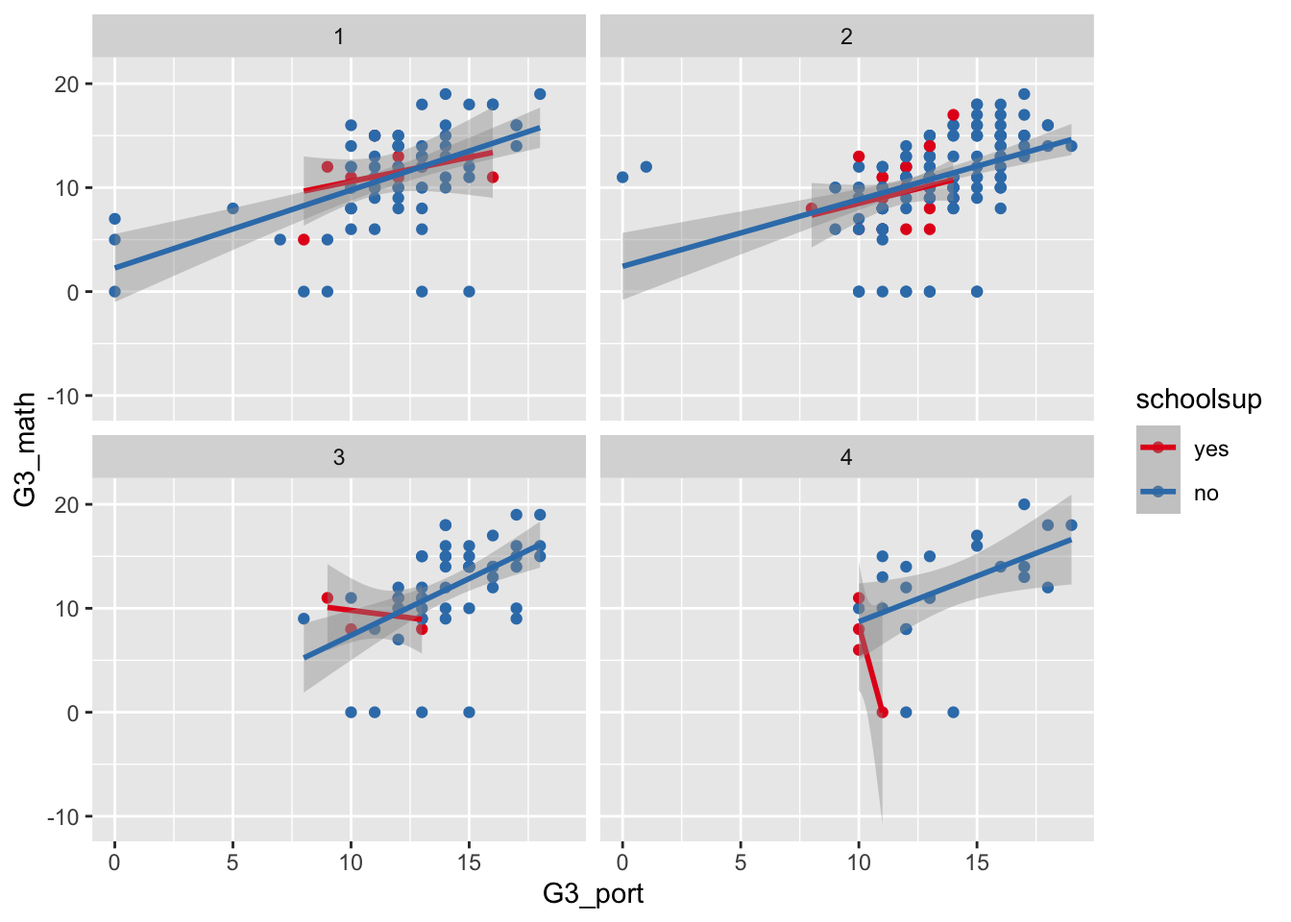
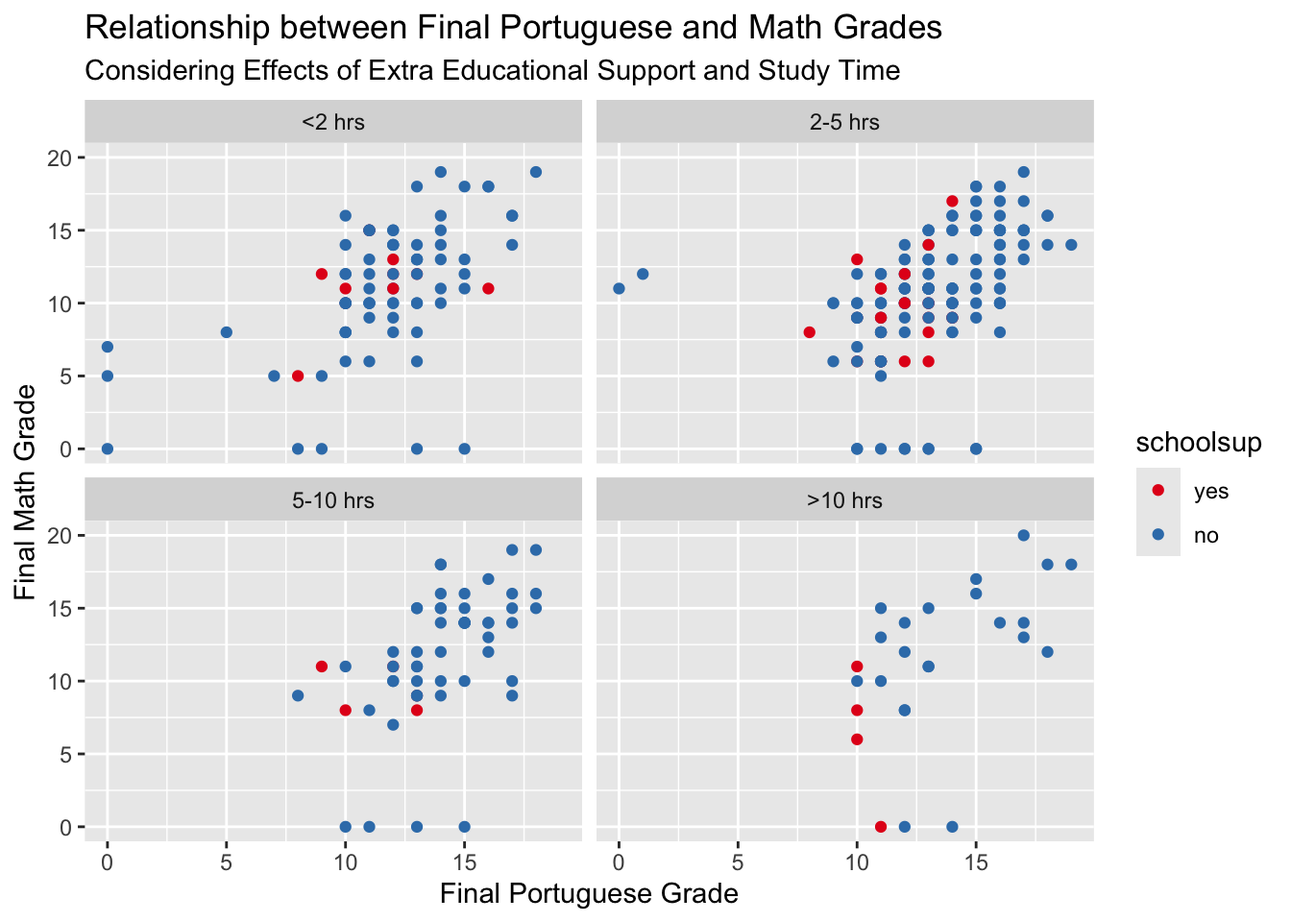
updated titles and labels

diff --git a/docs/summarizing_student_data.html b/docs/summarizing_student_data.html
@@ -314,7 +314,7 @@ dbl (16): age, Medu, Fedu, traveltime, studytime, failures, famrel, freetime...
 </section>
 <section id="establish-factors" class="level3">
 <h3 class="anchored" data-anchor-id="establish-factors">Establish Factors</h3>
-<p>Next, for the math data, Portuguese data, and combined data, choose at least four categorical variables of interest and convert those into factor variables in each tibble (use the same four variables in each).</p>
+<p>Next, for the math data, Portuguese data, and combined data, choose at least four categorical variables of interest and convert those into factor variables in each tibble (use the same factor variables in each).</p>
 <p>Identify all potential factor variables. <em>Note: consistent with some social science research practices, variables measured on a Likert scale (e.g., <code>health</code>) are treated as interval variables for analysis purposes.</em></p>
 <div class="cell">
 <div class="sourceCode cell-code" id="cb20"><pre class="sourceCode r code-with-copy"><code class="sourceCode r"><span id="cb20-1"><a href="#cb20-1" aria-hidden="true" tabindex="-1"></a>factors_yn <span class="ot">&lt;-</span> <span class="fu">c</span>(<span class="st">"schoolsup"</span>, <span class="st">"famsup"</span>, <span class="st">"paid"</span>, <span class="st">"paid_math"</span>, <span class="st">"paid_port"</span>, <span class="st">"activities"</span>, <span class="st">"nursery"</span>, <span class="st">"higher"</span>, <span class="st">"internet"</span>, <span class="st">"romantic"</span>)</span>
@@ -705,7 +705,7 @@ dbl (16): age, Medu, Fedu, traveltime, studytime, failures, famrel, freetime...
 </section>
 <section id="numeric-variables" class="level3">
 <h3 class="anchored" data-anchor-id="numeric-variables">Numeric Variables</h3>
-<p>Find measures of center and spread for the numeric variables <code>absences</code> and <code>G3</code> for both math and Portguese.</p>
+<p>Find measures of center and spread for the numeric variables <code>absences</code> and <code>G3</code> for both math and Portuguese.</p>
 <div class="cell">
 <div class="sourceCode cell-code" id="cb60"><pre class="sourceCode r code-with-copy"><code class="sourceCode r"><span id="cb60-1"><a href="#cb60-1" aria-hidden="true" tabindex="-1"></a>students <span class="sc">|&gt;</span></span>
 <span id="cb60-2"><a href="#cb60-2" aria-hidden="true" tabindex="-1"></a>  <span class="fu">summarise</span>(<span class="fu">across</span>(<span class="fu">c</span>(absences_math, G3_math, absences_port, G3_port),</span>
@@ -734,7 +734,7 @@ IQR_G3_port           4.00</code></pre>
 </div>
 </div>
 <p><em>Takeaway: absences show both a higher center and greater spread for math than for Portuguese; average math G3 scores are a bit lower than Portuguese, perhaps related to greater absences.</em></p>
-<p>Repeat the above analysis while subsetting the data in a meaningful way, in this case on commute time greater than 30 minutes.</p>
+<p>Repeat the above analysis while subsetting the data in a meaningful way, in this case on <strong>commute time</strong> greater than 30 minutes.</p>
 <div class="cell">
 <div class="sourceCode cell-code" id="cb62"><pre class="sourceCode r code-with-copy"><code class="sourceCode r"><span id="cb62-1"><a href="#cb62-1" aria-hidden="true" tabindex="-1"></a>students <span class="sc">|&gt;</span></span>
 <span id="cb62-2"><a href="#cb62-2" aria-hidden="true" tabindex="-1"></a>  <span class="fu">filter</span>(traveltime <span class="sc">&gt;=</span> <span class="dv">3</span>) <span class="sc">|&gt;</span></span>
@@ -764,7 +764,7 @@ IQR_G3_port           3.00</code></pre>
 </div>
 </div>
 <p><em>Takeaway: there looks to be less variability in adsences for math compared to the full sample; average G3 scores are somewhat lower for both math and Portuguese compared to the full sample.</em></p>
-<p>Find measures of center and spread for the numeric variables <code>G1</code> and <code>G3</code> for both math and Portuguese across a single grouping variable, in this case whether the student had extra educational support from the school.</p>
+<p>Find measures of center and spread for the numeric variables <code>G1</code> and <code>G3</code> for both math and Portuguese across a single grouping variable, in this case whether the student had <strong>extra educational support</strong> from the school.</p>
 <div class="cell">
 <div class="sourceCode cell-code" id="cb64"><pre class="sourceCode r code-with-copy"><code class="sourceCode r"><span id="cb64-1"><a href="#cb64-1" aria-hidden="true" tabindex="-1"></a>students <span class="sc">|&gt;</span></span>
 <span id="cb64-2"><a href="#cb64-2" aria-hidden="true" tabindex="-1"></a>  <span class="fu">group_by</span>(schoolsup) <span class="sc">|&gt;</span></span>
@@ -798,7 +798,7 @@ Supply arguments directly to `.fns` through an anonymous function instead.
 </div>
 </div>
 <p><em>Takeaway: students with extra educational support showed a modest increase from G1 scores to G3 scores; the same was true for Portuguese, although the students wihtout extra support also raised their scores.</em></p>
-<p>Find measures of center and spread for the numeric variables <code>G1</code> and <code>G3</code> for both math and Portuguese across two grouping variable, in this case whether the student had extra paid classes in either or both subjects.</p>
+<p>Find measures of center and spread for the numeric variables <code>G1</code> and <code>G3</code> for both math and Portuguese across two grouping variable, in this case whether the student had <strong>extra paid classes</strong> in either or both subjects.</p>
 <div class="cell">
 <div class="sourceCode cell-code" id="cb67"><pre class="sourceCode r code-with-copy"><code class="sourceCode r"><span id="cb67-1"><a href="#cb67-1" aria-hidden="true" tabindex="-1"></a>students <span class="sc">|&gt;</span></span>
 <span id="cb67-2"><a href="#cb67-2" aria-hidden="true" tabindex="-1"></a>  <span class="fu">group_by</span>(paid_math, paid_port) <span class="sc">|&gt;</span></span>
@@ -865,7 +865,7 @@ G3_port          0.48    1.00</code></pre>
 <span id="cb72-4"><a href="#cb72-4" aria-hidden="true" tabindex="-1"></a>  <span class="fu">xlab</span>(<span class="st">"Final Math Score"</span>) <span class="sc">+</span></span>
 <span id="cb72-5"><a href="#cb72-5" aria-hidden="true" tabindex="-1"></a>  <span class="fu">ylab</span>(<span class="st">"Count"</span>) <span class="sc">+</span></span>
 <span id="cb72-6"><a href="#cb72-6" aria-hidden="true" tabindex="-1"></a>  <span class="fu">labs</span>(<span class="at">title =</span> <span class="st">"Final Math Score Distribution"</span>,</span>
-<span id="cb72-7"><a href="#cb72-7" aria-hidden="true" tabindex="-1"></a>       <span class="at">subtitle =</span> <span class="st">"Considering Effects of Internet Access"</span>, <span class="at">fill =</span> <span class="st">"Internet Access"</span>) <span class="sc">+</span></span>
+<span id="cb72-7"><a href="#cb72-7" aria-hidden="true" tabindex="-1"></a>       <span class="at">subtitle =</span> <span class="st">"Considering Effects of Internet Access"</span>, <span class="at">fill =</span> <span class="st">"Internet </span><span class="sc">\n</span><span class="st">Access"</span>) <span class="sc">+</span></span>
 <span id="cb72-8"><a href="#cb72-8" aria-hidden="true" tabindex="-1"></a>  <span class="fu">scale_fill_brewer</span>(<span class="at">palette=</span><span class="st">"Paired"</span>)</span></code><button title="Copy to Clipboard" class="code-copy-button"><i class="bi"></i></button></pre></div>
 <div class="cell-output-display">
 <div>
@@ -884,7 +884,7 @@ G3_port          0.48    1.00</code></pre>
 <span id="cb73-4"><a href="#cb73-4" aria-hidden="true" tabindex="-1"></a>  <span class="fu">xlab</span>(<span class="st">"Final Portuguese Score"</span>) <span class="sc">+</span></span>
 <span id="cb73-5"><a href="#cb73-5" aria-hidden="true" tabindex="-1"></a>  <span class="fu">ylab</span>(<span class="st">"Count"</span>) <span class="sc">+</span></span>
 <span id="cb73-6"><a href="#cb73-6" aria-hidden="true" tabindex="-1"></a>  <span class="fu">labs</span>(<span class="at">title =</span> <span class="st">"Final Portuguese Score Distribution"</span>,</span>
-<span id="cb73-7"><a href="#cb73-7" aria-hidden="true" tabindex="-1"></a>       <span class="at">subtitle =</span> <span class="st">"Considering Effects of Internet Access"</span>, <span class="at">fill =</span> <span class="st">"Internet Access"</span>) <span class="sc">+</span></span>
+<span id="cb73-7"><a href="#cb73-7" aria-hidden="true" tabindex="-1"></a>       <span class="at">subtitle =</span> <span class="st">"Considering Effects of Internet Access"</span>, <span class="at">fill =</span> <span class="st">"Internet </span><span class="sc">\n</span><span class="st">Access"</span>) <span class="sc">+</span></span>
 <span id="cb73-8"><a href="#cb73-8" aria-hidden="true" tabindex="-1"></a>  <span class="fu">scale_fill_brewer</span>(<span class="at">palette=</span><span class="st">"Paired"</span>)</span></code><button title="Copy to Clipboard" class="code-copy-button"><i class="bi"></i></button></pre></div>
 <div class="cell-output-display">
 <div>
@@ -903,7 +903,7 @@ G3_port          0.48    1.00</code></pre>
 <span id="cb74-4"><a href="#cb74-4" aria-hidden="true" tabindex="-1"></a>  <span class="fu">xlab</span>(<span class="st">"Final Math Score"</span>) <span class="sc">+</span></span>
 <span id="cb74-5"><a href="#cb74-5" aria-hidden="true" tabindex="-1"></a>  <span class="fu">ylab</span>(<span class="st">"Count"</span>) <span class="sc">+</span></span>
 <span id="cb74-6"><a href="#cb74-6" aria-hidden="true" tabindex="-1"></a>  <span class="fu">labs</span>(<span class="at">title =</span> <span class="st">"Final Math Score Distribution"</span>,</span>
-<span id="cb74-7"><a href="#cb74-7" aria-hidden="true" tabindex="-1"></a>       <span class="at">subtitle =</span> <span class="st">"Considering Effects of Internet Access"</span>, <span class="at">fill =</span> <span class="st">"Internet Access"</span>) <span class="sc">+</span></span>
+<span id="cb74-7"><a href="#cb74-7" aria-hidden="true" tabindex="-1"></a>       <span class="at">subtitle =</span> <span class="st">"Considering Effects of Internet Access"</span>, <span class="at">fill =</span> <span class="st">"Internet </span><span class="sc">\n</span><span class="st">Access"</span>) <span class="sc">+</span></span>
 <span id="cb74-8"><a href="#cb74-8" aria-hidden="true" tabindex="-1"></a>  <span class="fu">scale_fill_brewer</span>(<span class="at">palette=</span><span class="st">"Paired"</span>)</span></code><button title="Copy to Clipboard" class="code-copy-button"><i class="bi"></i></button></pre></div>
 <div class="cell-output-display">
 <div>
@@ -922,7 +922,7 @@ G3_port          0.48    1.00</code></pre>
 <span id="cb75-4"><a href="#cb75-4" aria-hidden="true" tabindex="-1"></a>  <span class="fu">xlab</span>(<span class="st">"Final Portuguese Score"</span>) <span class="sc">+</span></span>
 <span id="cb75-5"><a href="#cb75-5" aria-hidden="true" tabindex="-1"></a>  <span class="fu">ylab</span>(<span class="st">"Count"</span>) <span class="sc">+</span></span>
 <span id="cb75-6"><a href="#cb75-6" aria-hidden="true" tabindex="-1"></a>  <span class="fu">labs</span>(<span class="at">title =</span> <span class="st">"Final Portuguese Score Distribution"</span>,</span>
-<span id="cb75-7"><a href="#cb75-7" aria-hidden="true" tabindex="-1"></a>       <span class="at">subtitle =</span> <span class="st">"Considering Effects of Internet Access"</span>, <span class="at">fill =</span> <span class="st">"Internet Access"</span>) <span class="sc">+</span></span>
+<span id="cb75-7"><a href="#cb75-7" aria-hidden="true" tabindex="-1"></a>       <span class="at">subtitle =</span> <span class="st">"Considering Effects of Internet Access"</span>, <span class="at">fill =</span> <span class="st">"Internet </span><span class="sc">\n</span><span class="st">Access"</span>) <span class="sc">+</span></span>
 <span id="cb75-8"><a href="#cb75-8" aria-hidden="true" tabindex="-1"></a>  <span class="fu">scale_fill_brewer</span>(<span class="at">palette=</span><span class="st">"Paired"</span>)</span></code><button title="Copy to Clipboard" class="code-copy-button"><i class="bi"></i></button></pre></div>
 <div class="cell-output-display">
 <div>
@@ -984,8 +984,9 @@ G3_port          0.48    1.00</code></pre>
 <span id="cb78-5"><a href="#cb78-5" aria-hidden="true" tabindex="-1"></a>  <span class="fu">geom_smooth</span>(<span class="at">method =</span> lm) <span class="sc">+</span></span>
 <span id="cb78-6"><a href="#cb78-6" aria-hidden="true" tabindex="-1"></a>  <span class="fu">xlab</span>(<span class="st">"First Period Math Grade"</span>) <span class="sc">+</span></span>
 <span id="cb78-7"><a href="#cb78-7" aria-hidden="true" tabindex="-1"></a>  <span class="fu">ylab</span>(<span class="st">"Final Math Grade"</span>) <span class="sc">+</span></span>
-<span id="cb78-8"><a href="#cb78-8" aria-hidden="true" tabindex="-1"></a>  <span class="fu">labs</span>(<span class="at">title =</span> <span class="st">"Relationship between First Period Grade and Final Grade"</span>,</span>
-<span id="cb78-9"><a href="#cb78-9" aria-hidden="true" tabindex="-1"></a>       <span class="at">subtitle =</span> <span class="st">"Considering Effects of Paid Extra Class"</span>)</span></code><button title="Copy to Clipboard" class="code-copy-button"><i class="bi"></i></button></pre></div>
+<span id="cb78-8"><a href="#cb78-8" aria-hidden="true" tabindex="-1"></a>  <span class="fu">labs</span>(<span class="at">title =</span> <span class="st">"Relationship between First Period Math Grade and Final Grade"</span>,</span>
+<span id="cb78-9"><a href="#cb78-9" aria-hidden="true" tabindex="-1"></a>       <span class="at">subtitle =</span> <span class="st">"Considering Effects of Paid Extra Classes"</span>,</span>
+<span id="cb78-10"><a href="#cb78-10" aria-hidden="true" tabindex="-1"></a>       <span class="at">color =</span> <span class="st">"Extra Paid </span><span class="sc">\n</span><span class="st">Classes"</span>)</span></code><button title="Copy to Clipboard" class="code-copy-button"><i class="bi"></i></button></pre></div>
 <div class="cell-output cell-output-stderr">
 <pre><code>`geom_smooth()` using formula = 'y ~ x'</code></pre>
 </div>
@@ -997,7 +998,7 @@ G3_port          0.48    1.00</code></pre>
 </div>
 </div>
 </div>
-<p><em>Takeaway: …</em></p>
+<p><em>Takeaway: first period and final period math scores appear fairly correlated; these is no obvious clustering for students with extra paid math classes</em></p>
 <p>Create a scatterplot relating a <code>G3</code> variable, in this case <code>G3_math</code> to other numeric variables, in this case <code>G3_port</code>. Color the points by a categorical variable, in this case <code>schoolsup</code>.</p>
 <div class="cell">
 <div class="sourceCode cell-code" id="cb80"><pre class="sourceCode r code-with-copy"><code class="sourceCode r"><span id="cb80-1"><a href="#cb80-1" aria-hidden="true" tabindex="-1"></a>students <span class="sc">|&gt;</span></span>
@@ -1023,15 +1024,17 @@ G3_port          0.48    1.00</code></pre>
 <p><em>Takeaway: …</em></p>
 <p>Repeat the scatter plot step but use faceting to obtain graphs at each setting of another categorical variable.</p>
 <div class="cell">
-<div class="sourceCode cell-code" id="cb82"><pre class="sourceCode r code-with-copy"><code class="sourceCode r"><span id="cb82-1"><a href="#cb82-1" aria-hidden="true" tabindex="-1"></a>students <span class="sc">|&gt;</span></span>
-<span id="cb82-2"><a href="#cb82-2" aria-hidden="true" tabindex="-1"></a>  <span class="fu">ggplot</span>(<span class="fu">aes</span>(G1_math, G3_math, <span class="at">color =</span> paid_math)) <span class="sc">+</span></span>
-<span id="cb82-3"><a href="#cb82-3" aria-hidden="true" tabindex="-1"></a>  <span class="fu">geom_point</span>() <span class="sc">+</span></span>
-<span id="cb82-4"><a href="#cb82-4" aria-hidden="true" tabindex="-1"></a>  <span class="fu">scale_color_brewer</span>(<span class="at">palette =</span> <span class="st">"Set1"</span>) <span class="sc">+</span></span>
-<span id="cb82-5"><a href="#cb82-5" aria-hidden="true" tabindex="-1"></a>  <span class="fu">geom_smooth</span>(<span class="at">method =</span> lm) <span class="sc">+</span></span>
-<span id="cb82-6"><a href="#cb82-6" aria-hidden="true" tabindex="-1"></a>  <span class="fu">facet_wrap</span>(<span class="sc">~</span> studytime)</span></code><button title="Copy to Clipboard" class="code-copy-button"><i class="bi"></i></button></pre></div>
-<div class="cell-output cell-output-stderr">
-<pre><code>`geom_smooth()` using formula = 'y ~ x'</code></pre>
-</div>
+<div class="sourceCode cell-code" id="cb82"><pre class="sourceCode r code-with-copy"><code class="sourceCode r"><span id="cb82-1"><a href="#cb82-1" aria-hidden="true" tabindex="-1"></a>study_time <span class="ot">&lt;-</span> <span class="fu">as_labeller</span>(<span class="fu">c</span>(<span class="st">"1"</span> <span class="ot">=</span> <span class="st">"&lt;2 hrs"</span>, <span class="st">"2"</span> <span class="ot">=</span> <span class="st">"2-5 hrs"</span>, <span class="st">"3"</span> <span class="ot">=</span> <span class="st">"5-10 hrs"</span>, <span class="st">"4"</span> <span class="ot">=</span> <span class="st">"&gt;10 hrs"</span>))</span>
+<span id="cb82-2"><a href="#cb82-2" aria-hidden="true" tabindex="-1"></a></span>
+<span id="cb82-3"><a href="#cb82-3" aria-hidden="true" tabindex="-1"></a>students <span class="sc">|&gt;</span></span>
+<span id="cb82-4"><a href="#cb82-4" aria-hidden="true" tabindex="-1"></a>  <span class="fu">ggplot</span>(<span class="fu">aes</span>(G1_math, G3_math, <span class="at">color =</span> paid_math)) <span class="sc">+</span></span>
+<span id="cb82-5"><a href="#cb82-5" aria-hidden="true" tabindex="-1"></a>  <span class="fu">geom_point</span>() <span class="sc">+</span></span>
+<span id="cb82-6"><a href="#cb82-6" aria-hidden="true" tabindex="-1"></a>  <span class="fu">scale_color_brewer</span>(<span class="at">palette =</span> <span class="st">"Set1"</span>) <span class="sc">+</span></span>
+<span id="cb82-7"><a href="#cb82-7" aria-hidden="true" tabindex="-1"></a>  <span class="fu">xlab</span>(<span class="st">"First Period Math Grade"</span>) <span class="sc">+</span></span>
+<span id="cb82-8"><a href="#cb82-8" aria-hidden="true" tabindex="-1"></a>  <span class="fu">ylab</span>(<span class="st">"Final Math Grade"</span>) <span class="sc">+</span></span>
+<span id="cb82-9"><a href="#cb82-9" aria-hidden="true" tabindex="-1"></a>  <span class="fu">labs</span>(<span class="at">title =</span> <span class="st">"Relationship between First Period Math Grade and Final Grade"</span>,</span>
+<span id="cb82-10"><a href="#cb82-10" aria-hidden="true" tabindex="-1"></a>       <span class="at">subtitle =</span> <span class="st">"Considering Effects of Paid Extra Classes and Study Time"</span>) <span class="sc">+</span></span>
+<span id="cb82-11"><a href="#cb82-11" aria-hidden="true" tabindex="-1"></a>  <span class="fu">facet_wrap</span>(<span class="sc">~</span> studytime, <span class="at">labeller =</span> study_time)</span></code><button title="Copy to Clipboard" class="code-copy-button"><i class="bi"></i></button></pre></div>
 <div class="cell-output-display">
 <div>
 <figure class="figure">
@@ -1040,18 +1043,18 @@ G3_port          0.48    1.00</code></pre>
 </div>
 </div>
 </div>
-<p><em>Takeaway: …</em></p>
+<p><em>Takeaway: amount of study time does not appear to materially influence the correlation between first period and final math scores; perhaps there is a modest influence on the slope</em></p>
 <p>Repeat the scatter plot step but use faceting to obtain graphs at each setting of another categorical variable.</p>
 <div class="cell">
-<div class="sourceCode cell-code" id="cb84"><pre class="sourceCode r code-with-copy"><code class="sourceCode r"><span id="cb84-1"><a href="#cb84-1" aria-hidden="true" tabindex="-1"></a>students <span class="sc">|&gt;</span></span>
-<span id="cb84-2"><a href="#cb84-2" aria-hidden="true" tabindex="-1"></a>  <span class="fu">ggplot</span>(<span class="fu">aes</span>(G3_port, G3_math, <span class="at">color =</span> schoolsup)) <span class="sc">+</span></span>
-<span id="cb84-3"><a href="#cb84-3" aria-hidden="true" tabindex="-1"></a>  <span class="fu">geom_point</span>() <span class="sc">+</span></span>
-<span id="cb84-4"><a href="#cb84-4" aria-hidden="true" tabindex="-1"></a>  <span class="fu">scale_color_brewer</span>(<span class="at">palette =</span> <span class="st">"Set1"</span>) <span class="sc">+</span></span>
-<span id="cb84-5"><a href="#cb84-5" aria-hidden="true" tabindex="-1"></a>  <span class="fu">geom_smooth</span>(<span class="at">method =</span> lm) <span class="sc">+</span></span>
-<span id="cb84-6"><a href="#cb84-6" aria-hidden="true" tabindex="-1"></a>  <span class="fu">facet_wrap</span>(<span class="sc">~</span> studytime)</span></code><button title="Copy to Clipboard" class="code-copy-button"><i class="bi"></i></button></pre></div>
-<div class="cell-output cell-output-stderr">
-<pre><code>`geom_smooth()` using formula = 'y ~ x'</code></pre>
-</div>
+<div class="sourceCode cell-code" id="cb83"><pre class="sourceCode r code-with-copy"><code class="sourceCode r"><span id="cb83-1"><a href="#cb83-1" aria-hidden="true" tabindex="-1"></a>students <span class="sc">|&gt;</span></span>
+<span id="cb83-2"><a href="#cb83-2" aria-hidden="true" tabindex="-1"></a>  <span class="fu">ggplot</span>(<span class="fu">aes</span>(G3_port, G3_math, <span class="at">color =</span> schoolsup)) <span class="sc">+</span></span>
+<span id="cb83-3"><a href="#cb83-3" aria-hidden="true" tabindex="-1"></a>  <span class="fu">geom_point</span>() <span class="sc">+</span></span>
+<span id="cb83-4"><a href="#cb83-4" aria-hidden="true" tabindex="-1"></a>  <span class="fu">scale_color_brewer</span>(<span class="at">palette =</span> <span class="st">"Set1"</span>) <span class="sc">+</span></span>
+<span id="cb83-5"><a href="#cb83-5" aria-hidden="true" tabindex="-1"></a>  <span class="fu">xlab</span>(<span class="st">"Final Portuguese Grade"</span>) <span class="sc">+</span></span>
+<span id="cb83-6"><a href="#cb83-6" aria-hidden="true" tabindex="-1"></a>  <span class="fu">ylab</span>(<span class="st">"Final Math Grade"</span>) <span class="sc">+</span></span>
+<span id="cb83-7"><a href="#cb83-7" aria-hidden="true" tabindex="-1"></a>  <span class="fu">labs</span>(<span class="at">title =</span> <span class="st">"Relationship between Final Portuguese and Math Grades"</span>,</span>
+<span id="cb83-8"><a href="#cb83-8" aria-hidden="true" tabindex="-1"></a>       <span class="at">subtitle =</span> <span class="st">"Considering Effects of Extra Educational Support and Study Time"</span>) <span class="sc">+</span></span>
+<span id="cb83-9"><a href="#cb83-9" aria-hidden="true" tabindex="-1"></a>  <span class="fu">facet_wrap</span>(<span class="sc">~</span> studytime, <span class="at">labeller =</span> study_time)</span></code><button title="Copy to Clipboard" class="code-copy-button"><i class="bi"></i></button></pre></div>
 <div class="cell-output-display">
 <div>
 <figure class="figure">
@@ -1060,18 +1063,18 @@ G3_port          0.48    1.00</code></pre>
 </div>
 </div>
 </div>
-<p><em>Takeaway: …</em></p>
+<p><em>Takeaway: final math and Portuguese scores appear correlated with medium strength across all facet levels; those with over 10 study hours appear to be more tightly packed toward the upper right</em></p>
 <p>Repeat the scatter plot step but use faceting to obtain graphs at each combination of two categorical variables.</p>
 <div class="cell">
-<div class="sourceCode cell-code" id="cb86"><pre class="sourceCode r code-with-copy"><code class="sourceCode r"><span id="cb86-1"><a href="#cb86-1" aria-hidden="true" tabindex="-1"></a>students <span class="sc">|&gt;</span></span>
-<span id="cb86-2"><a href="#cb86-2" aria-hidden="true" tabindex="-1"></a>  <span class="fu">ggplot</span>(<span class="fu">aes</span>(G1_math, G3_math, <span class="at">color =</span> paid_math)) <span class="sc">+</span></span>
-<span id="cb86-3"><a href="#cb86-3" aria-hidden="true" tabindex="-1"></a>  <span class="fu">geom_point</span>() <span class="sc">+</span></span>
-<span id="cb86-4"><a href="#cb86-4" aria-hidden="true" tabindex="-1"></a>  <span class="fu">scale_color_brewer</span>(<span class="at">palette =</span> <span class="st">"Set1"</span>) <span class="sc">+</span></span>
-<span id="cb86-5"><a href="#cb86-5" aria-hidden="true" tabindex="-1"></a>  <span class="fu">geom_smooth</span>(<span class="at">method =</span> lm) <span class="sc">+</span></span>
-<span id="cb86-6"><a href="#cb86-6" aria-hidden="true" tabindex="-1"></a>  <span class="fu">facet_wrap</span>(romantic <span class="sc">~</span> activities)</span></code><button title="Copy to Clipboard" class="code-copy-button"><i class="bi"></i></button></pre></div>
-<div class="cell-output cell-output-stderr">
-<pre><code>`geom_smooth()` using formula = 'y ~ x'</code></pre>
-</div>
+<div class="sourceCode cell-code" id="cb84"><pre class="sourceCode r code-with-copy"><code class="sourceCode r"><span id="cb84-1"><a href="#cb84-1" aria-hidden="true" tabindex="-1"></a>students <span class="sc">|&gt;</span></span>
+<span id="cb84-2"><a href="#cb84-2" aria-hidden="true" tabindex="-1"></a>  <span class="fu">ggplot</span>(<span class="fu">aes</span>(G1_math, G3_math, <span class="at">color =</span> paid_math)) <span class="sc">+</span></span>
+<span id="cb84-3"><a href="#cb84-3" aria-hidden="true" tabindex="-1"></a>  <span class="fu">geom_point</span>() <span class="sc">+</span></span>
+<span id="cb84-4"><a href="#cb84-4" aria-hidden="true" tabindex="-1"></a>  <span class="fu">scale_color_brewer</span>(<span class="at">palette =</span> <span class="st">"Set1"</span>) <span class="sc">+</span></span>
+<span id="cb84-5"><a href="#cb84-5" aria-hidden="true" tabindex="-1"></a>  <span class="fu">xlab</span>(<span class="st">"First Period Math Grade"</span>) <span class="sc">+</span></span>
+<span id="cb84-6"><a href="#cb84-6" aria-hidden="true" tabindex="-1"></a>  <span class="fu">ylab</span>(<span class="st">"Final Math Grade"</span>) <span class="sc">+</span></span>
+<span id="cb84-7"><a href="#cb84-7" aria-hidden="true" tabindex="-1"></a>  <span class="fu">labs</span>(<span class="at">title =</span> <span class="st">"Relationship between First Period Math Grade and Final Grade"</span>,</span>
+<span id="cb84-8"><a href="#cb84-8" aria-hidden="true" tabindex="-1"></a>       <span class="at">subtitle =</span> <span class="st">"Considering Effects of Paid Extra Classes and Studytime"</span>) <span class="sc">+</span></span>
+<span id="cb84-9"><a href="#cb84-9" aria-hidden="true" tabindex="-1"></a>  <span class="fu">facet_wrap</span>(romantic <span class="sc">~</span> activities, <span class="at">labeller =</span> label_context)</span></code><button title="Copy to Clipboard" class="code-copy-button"><i class="bi"></i></button></pre></div>
 <div class="cell-output-display">
 <div>
 <figure class="figure">
@@ -1080,25 +1083,14 @@ G3_port          0.48    1.00</code></pre>
 </div>
 </div>
 </div>
-<p><em>Takeaway: …</em></p>
+<p><em>Takeaway: the presence of romantic relationships and involvement in extra-curricular activities do not seem to meaningfully change the relationship between first period and final math scores.</em></p>
 <p>Repeat the scatter plot step but use faceting to obtain graphs at each combination of two categorical variables.</p>
 <div class="cell">
-<div class="sourceCode cell-code" id="cb88"><pre class="sourceCode r code-with-copy"><code class="sourceCode r"><span id="cb88-1"><a href="#cb88-1" aria-hidden="true" tabindex="-1"></a>students <span class="sc">|&gt;</span></span>
-<span id="cb88-2"><a href="#cb88-2" aria-hidden="true" tabindex="-1"></a>  <span class="fu">ggplot</span>(<span class="fu">aes</span>(G3_port, G3_math, <span class="at">color =</span> schoolsup)) <span class="sc">+</span></span>
-<span id="cb88-3"><a href="#cb88-3" aria-hidden="true" tabindex="-1"></a>  <span class="fu">geom_point</span>() <span class="sc">+</span></span>
-<span id="cb88-4"><a href="#cb88-4" aria-hidden="true" tabindex="-1"></a>  <span class="fu">scale_color_brewer</span>(<span class="at">palette =</span> <span class="st">"Set1"</span>) <span class="sc">+</span></span>
-<span id="cb88-5"><a href="#cb88-5" aria-hidden="true" tabindex="-1"></a>  <span class="fu">geom_smooth</span>(<span class="at">method =</span> lm) <span class="sc">+</span></span>
-<span id="cb88-6"><a href="#cb88-6" aria-hidden="true" tabindex="-1"></a>  <span class="fu">facet_wrap</span>(romantic <span class="sc">~</span> activities)</span></code><button title="Copy to Clipboard" class="code-copy-button"><i class="bi"></i></button></pre></div>
-<div class="cell-output cell-output-stderr">
-<pre><code>`geom_smooth()` using formula = 'y ~ x'</code></pre>
-</div>
-<div class="cell-output cell-output-stderr">
-<pre><code>Warning in qt((1 - level)/2, df): NaNs produced</code></pre>
-</div>
-<div class="cell-output cell-output-stderr">
-<pre><code>Warning in max(ids, na.rm = TRUE): no non-missing arguments to max; returning
--Inf</code></pre>
-</div>
+<div class="sourceCode cell-code" id="cb85"><pre class="sourceCode r code-with-copy"><code class="sourceCode r"><span id="cb85-1"><a href="#cb85-1" aria-hidden="true" tabindex="-1"></a>students <span class="sc">|&gt;</span></span>
+<span id="cb85-2"><a href="#cb85-2" aria-hidden="true" tabindex="-1"></a>  <span class="fu">ggplot</span>(<span class="fu">aes</span>(G3_port, G3_math, <span class="at">color =</span> schoolsup)) <span class="sc">+</span></span>
+<span id="cb85-3"><a href="#cb85-3" aria-hidden="true" tabindex="-1"></a>  <span class="fu">geom_point</span>() <span class="sc">+</span></span>
+<span id="cb85-4"><a href="#cb85-4" aria-hidden="true" tabindex="-1"></a>  <span class="fu">scale_color_brewer</span>(<span class="at">palette =</span> <span class="st">"Set1"</span>) <span class="sc">+</span></span>
+<span id="cb85-5"><a href="#cb85-5" aria-hidden="true" tabindex="-1"></a>  <span class="fu">facet_wrap</span>(romantic <span class="sc">~</span> activities, <span class="at">labeller =</span> label_context)</span></code><button title="Copy to Clipboard" class="code-copy-button"><i class="bi"></i></button></pre></div>
 <div class="cell-output-display">
 <div>
 <figure class="figure">
@@ -1107,7 +1099,7 @@ G3_port          0.48    1.00</code></pre>
 </div>
 </div>
 </div>
-<p><em>Takeaway: …</em></p>
+<p><em>Takeaway: students with only a romantic relationship (bottom left quadrant) appear more spread and more weakly correlated on final math and Portuguese scores</em></p>
 
 
 </section>
